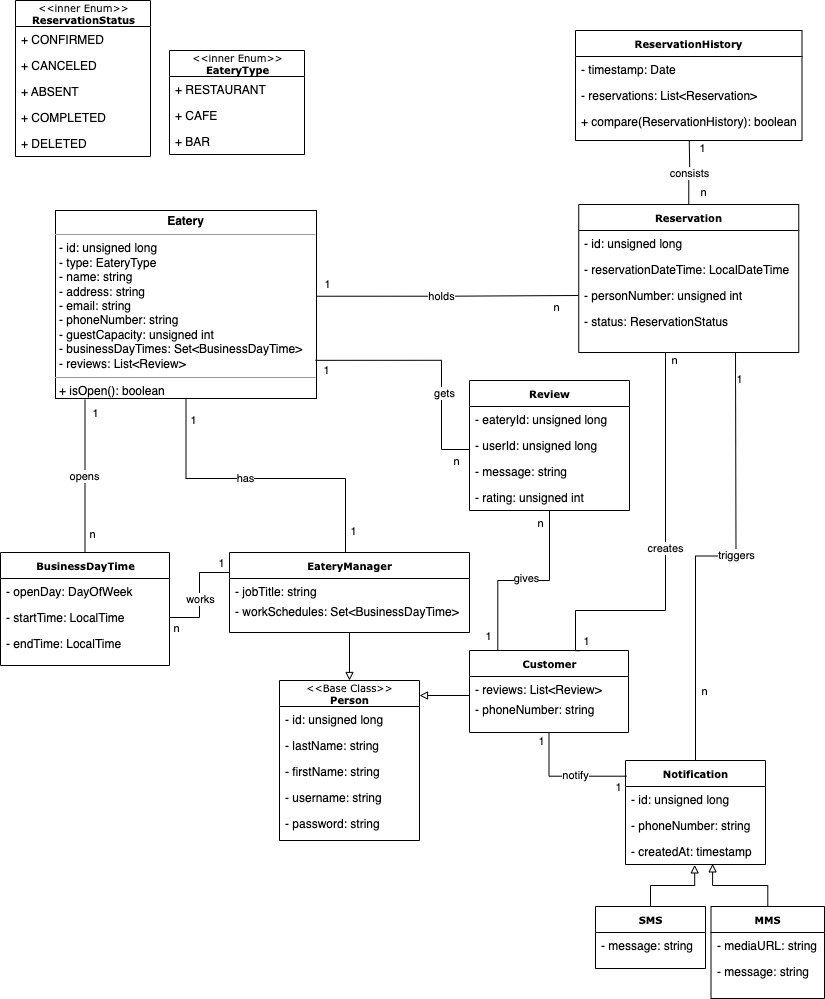
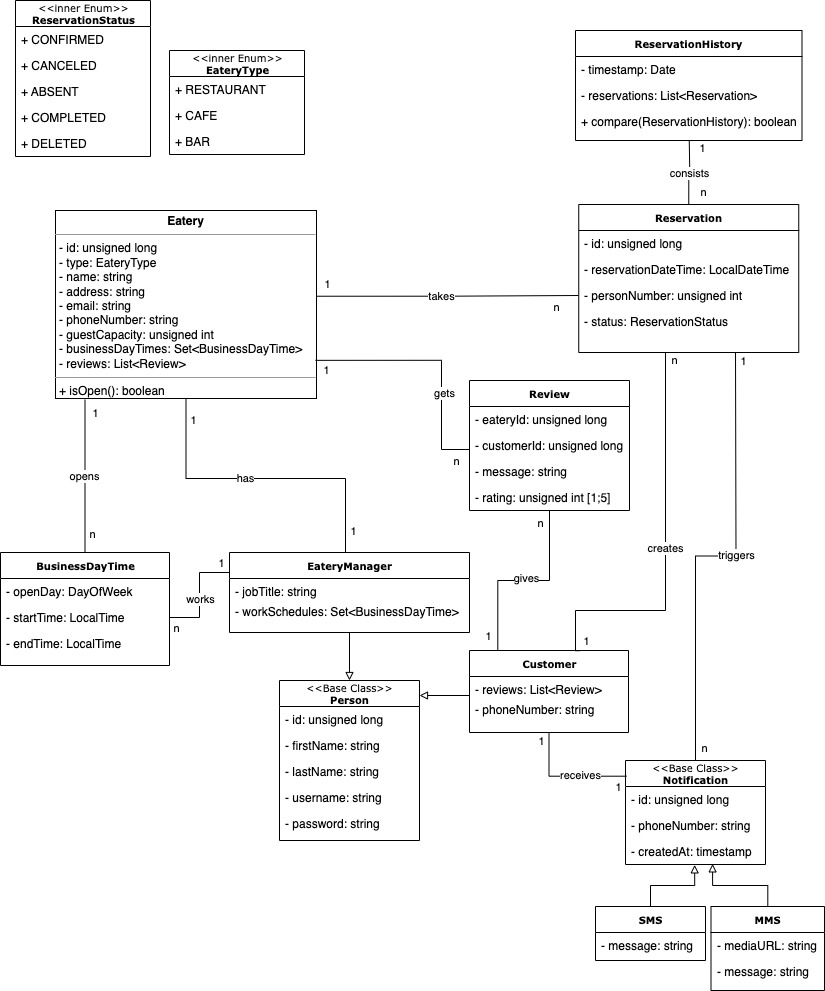
update diagrams

diff --git a/src/main/java/com/eatery/service/ReservationService.java b/src/main/java/com/eatery/service/ReservationService.java
@@ -193,7 +193,7 @@ public class ReservationService {
     }
 
     /**
-     * Deletes a reservation if it has been completed or cancelled.
+     * Deletes a reservation if it has been completed, cancelled or absent.
      * @param id The ID of the reservation to delete.
      * @throws ReservationNotFoundException if the reservation with the specified ID does not exist.
      */
@@ -201,8 +201,7 @@ public class ReservationService {
         Reservation reservation = reservationRepository.findById(id)
                 .orElseThrow(ReservationNotFoundException::new);
 
-        if (reservation.getStatus().equals(Reservation.Status.COMPLETED) ||
-                reservation.getStatus().equals(CANCELLED)) {
+        if (reservation.getStatus().equals(COMPLETED) || reservation.getStatus().equals(CANCELLED) || reservation.getStatus().equals(ABSENT)) {
 
             reservation.setStatus(DELETED);
             ReservationHistory history = new ReservationHistory(

diff --git a/src/main/java/com/eatery/entity/Reservation.java b/src/main/java/com/eatery/entity/Reservation.java
@@ -55,6 +55,7 @@ public class Reservation {
         CONFIRMED,
         COMPLETED,
         CANCELLED,
+        ABSENT,
         DELETED
     }
 
